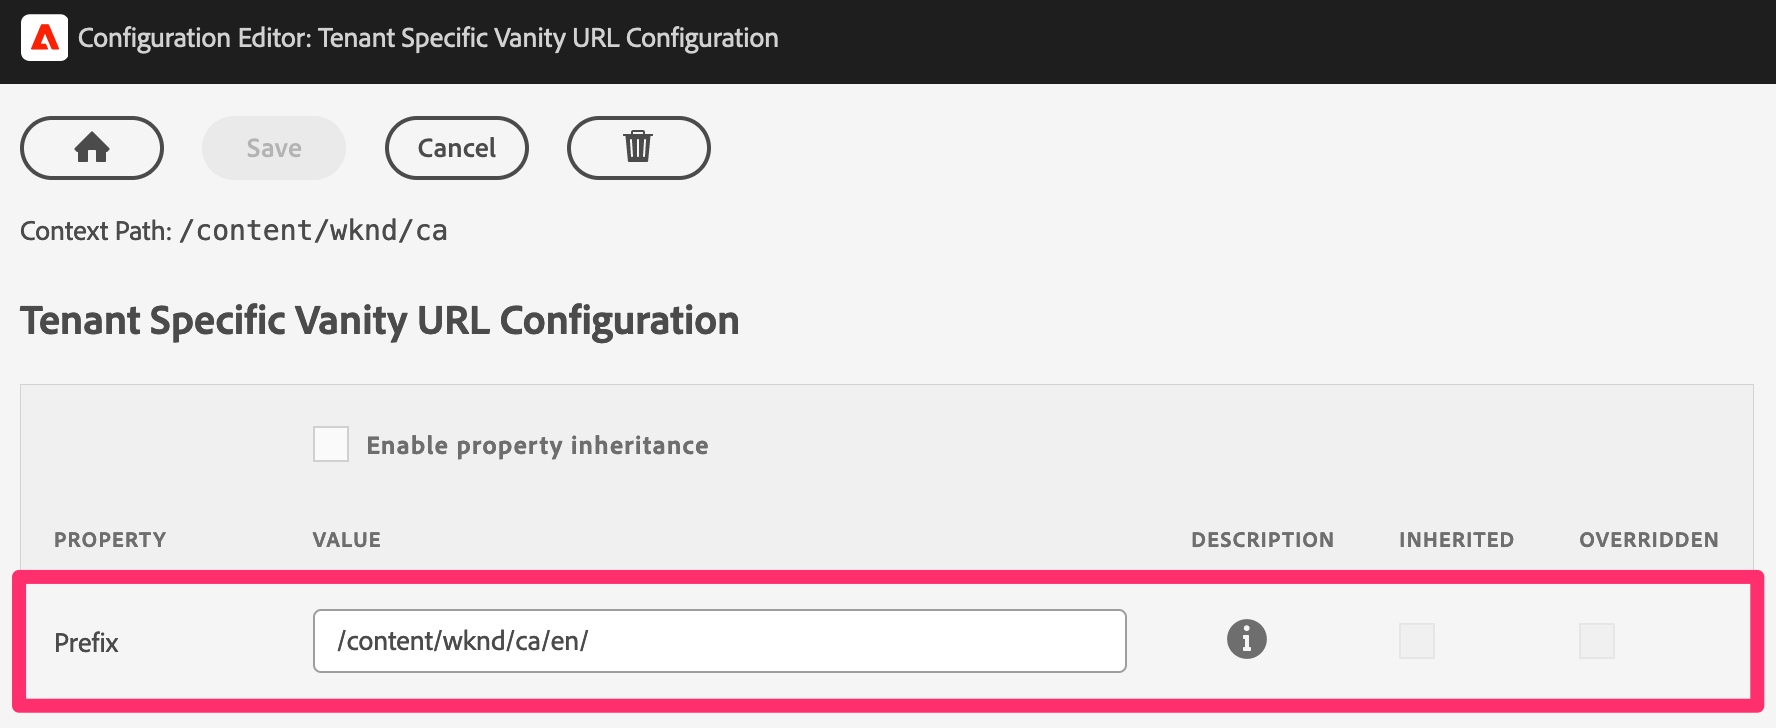
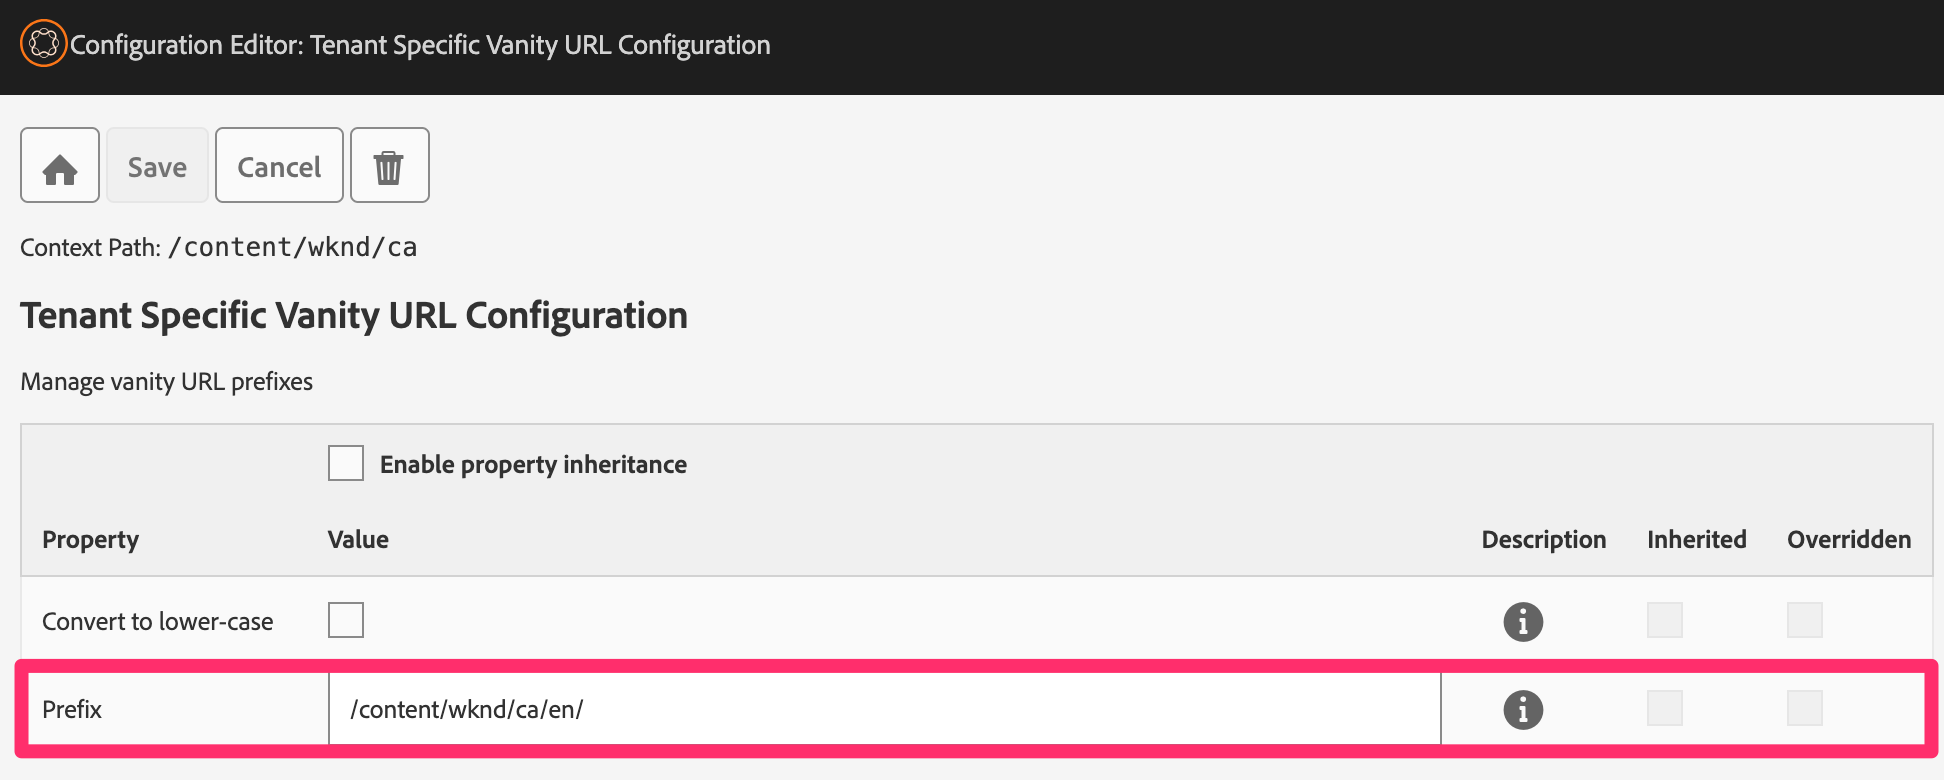
#5 convert to lower-case

diff --git a/ui.apps/src/main/content/jcr_root/apps/ibm/aem-tenant-specific-vanity-urls/clientlibs/clientlib-author/js/site.js b/ui.apps/src/main/content/jcr_root/apps/ibm/aem-tenant-specific-vanity-urls/clientlibs/clientlib-author/js/site.js
@@ -1,5 +1,5 @@
 /**
- * Copyright 2023 IBM iX
+ * Copyright 2023 - 2025 IBM iX
  *
  * Permission is hereby granted, free of charge, to any person obtaining a copy of this software and
  * associated documentation files (the "Software"), to deal in the Software without restriction,

diff --git a/README.md b/README.md
@@ -51,6 +51,8 @@ The prefix can be any value (e.g. "/content/wknd/ca/en") but must be unique for 
 
 Now, as soon as an author sets a vanity URL, this prefix will be added. This makes sure all vanity URLs have the correct prefix.
 
+You can also convert all editor input for vanity URLs to lower-case. This is helpful if you want to have case-insensitive vanity URLs. Please note that you need to convert incoming vanity requests to lower-case on dispatcher then.
+
 ![Context Aware Configuration](docs/images/caconfig1.png)
 ![Prefix Configuration](docs/images/caconfig2.png)
 
